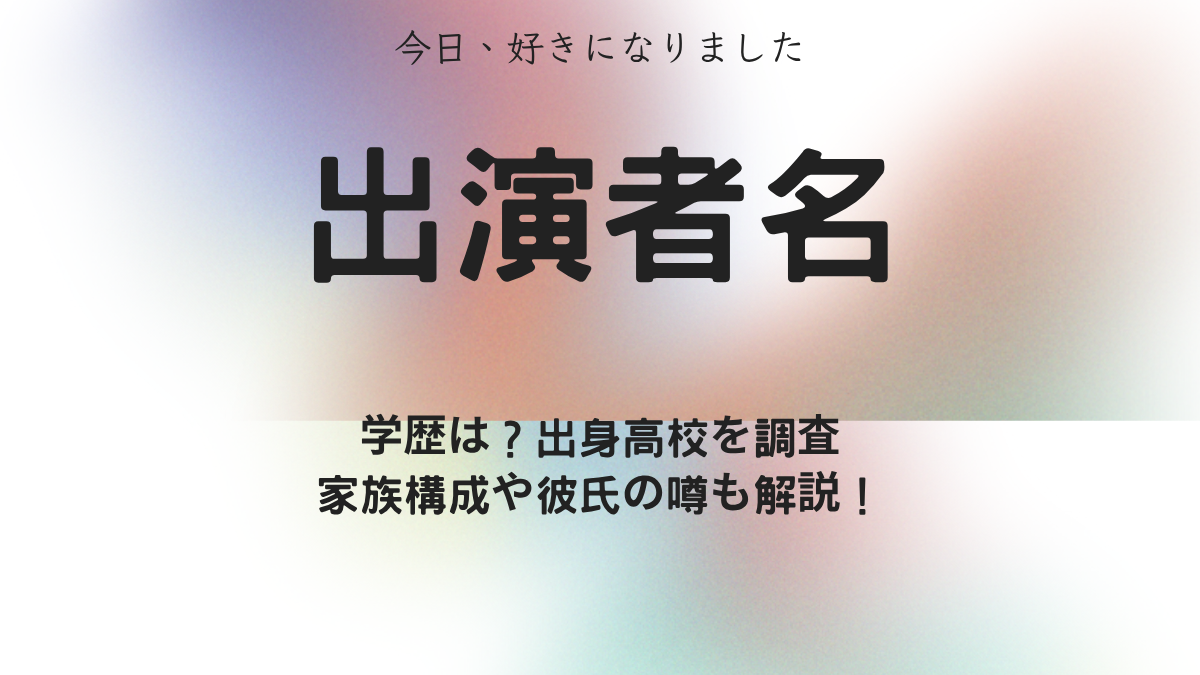
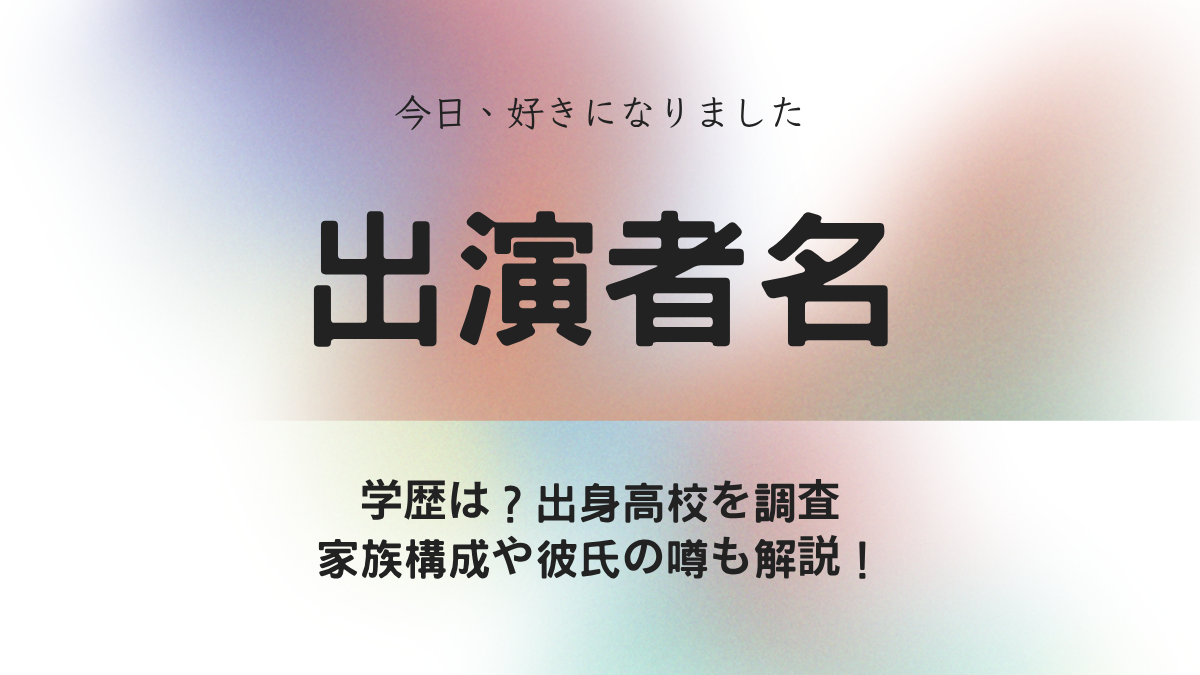
fix(canva-mcp-chomoand): マスターデザインの上部余白不足を修正、カテゴリーサムネイルの1行目切れを解消
カテゴリー一覧ページのサムネイルで番組名(1行目)が上端で切れていた問題を修正。
上部余白40pxに対し下部余白245pxと非対称だったため、3テキスト要素を下方向に103px平行移動し均等化。
既存3記事(11553/11554/11555)のアイキャッチも修正版マスターで作り直し、featured_mediaを更新。

diff --git a/docs/canva-mcp-chomoand.md b/docs/canva-mcp-chomoand.md
@@ -71,6 +71,23 @@ Canva MCPの編集API(`format_text`)は**フォントサイズ・太さ・スタ
 
 KO1KEYZと**全く同じCanva標準ストックアセット**(「Glowy Gradient Abstract Brush Stroke Blob」シリーズ)を使う。トモキ個人の資産ではなくCanva公式のストック素材なので、chomoand.com側でも同じIDがそのまま使える(2026-07-16に`get-assets`で確認済み)。一覧は[docs/canva-mcp.mdの背景アセット一覧](canva-mcp.md#背景アセット一覧色替え用ここからランダムに選ぶ)を参照。
 
+## 既知の不具合と修正(2026-07-17)
+
+カテゴリー一覧ページ(例: `https://chomoand.com/category/kyousuki/`)のサムネイル表示で、**1行目(番組名)のテキストが上端でほぼ切れて見えなくなる**不具合があった。単体記事ページの大きいアイキャッチはフル表示されるため気づきにくい。
+
+- **原因**: マスターデザインのテキストレイアウトが上下非対称だった。1920×1080のページで、1行目要素の`top`が`40`(上部余白ほぼ無し)なのに対し、3〜4行目要素の下端が`834.67`(下部余白`245.33`)と、下の余白が上の余白の6倍以上あった。一覧サムネイルは縦方向を均等または上寄せでトリミングするため、狭い上部余白ごと1行目が削られていた。
+- **修正**: 3つのテキスト要素(1行目・2行目・3〜4行目)を**すべて下方向に103pxだけ平行移動**し、上下の余白をほぼ均等にした。文字サイズ・行間・要素同士の相対位置(間隔)は一切変更していない。
+
+| 要素 | 修正前top | 修正後top |
+|---|---|---|
+| 1行目(番組名) | 40 | 143 |
+| 2行目(出演者名) | 200 | 303 |
+| 3〜4行目(疑問形+補足) | 660 | 763 |
+
+修正後の余白: 上部余白143px / 下部余白142.33px(ほぼ均等)。背景要素(グレイン地・ブラシストローク)の位置は変更していない。
+
+修正はマスターデザイン(`DAHPjgiBOTI`)に直接適用済み。今後このマスターから`copy-design`する記事は自動的に修正後のレイアウトになる。既存3記事(11553/11554/11555)は作り直して`featured_media`を更新済み(下記参照)。
+
 ## 検証済みの実例
 
 - マスターデザイン作成時のサンプル(記事に紐付いていないテンプレート確認用)
@@ -80,8 +97,9 @@ KO1KEYZと**全く同じCanva標準ストックアセット**(「Glowy Gradient 
   - 3要素とも`replace_text`・`find_and_replace_text`双方で正常に置換できることを確認(2026-07-16)
 
 - 「今日、好きになりました。夏休み編2026」記事3本(chomoand.com、2026-07-17)
-  - 記事ID 11553(ハブ記事): `images/kyousuki_natsuyasumi2026_member_eyecatch_canva.png` → メディアID 11577
-  - 記事ID 11554(福住真里): `images/fukuzumi_mari_wiki_eyecatch_canva.png` → メディアID 11578
-  - 記事ID 11555(藤村みのり): `images/fujimura_minori_wiki_eyecatch_canva.png` → メディアID 11579
+  - 記事ID 11553(ハブ記事): `images/kyousuki_natsuyasumi2026_member_eyecatch_canva.png` → メディアID 11577(初版)→ **11580(上部余白修正版に差し替え、背景`MAEn_R6sFPg`)**
+  - 記事ID 11554(福住真里): `images/fukuzumi_mari_wiki_eyecatch_canva.png` → メディアID 11578(初版)→ **11581(上部余白修正版に差し替え、背景`MAEn_YBWNzA`)**
+  - 記事ID 11555(藤村みのり): `images/fujimura_minori_wiki_eyecatch_canva.png` → メディアID 11579(初版)→ **11582(上部余白修正版に差し替え、背景`MAEn_avMm94`)**
   - 3本とも背景ブラシストロークの色が異なることを確認済み。`featured_media`のみ更新し、記事本体・ステータス(`publish`)は変更していないことも確認済み。
+  - 上部余白修正版(2026-07-17再作成分)も同様に3本の色が重複しないことを確認済み。修正後、カテゴリーページ(`/category/kyousuki/`)・単体記事ページの両方をPlaywrightでスクリーンショット確認し、1行目の切れが解消されたことを確認済み。
   - ⚠ **既知の挙動**: 3〜4行目のトピック要素に含まれる英字は、テンプレートのテキストスタイル(全角英数字用のスタイル)により**自動的に大文字化される**(例: 「wiki」→「WIKI」、「sweet16」→「SWEET16」)。見た目は太字強調っぽくなり違和感はないが、意図的に小文字を保ちたい場合はCanva UI側で該当要素のスタイルを個別調整する必要がある。
